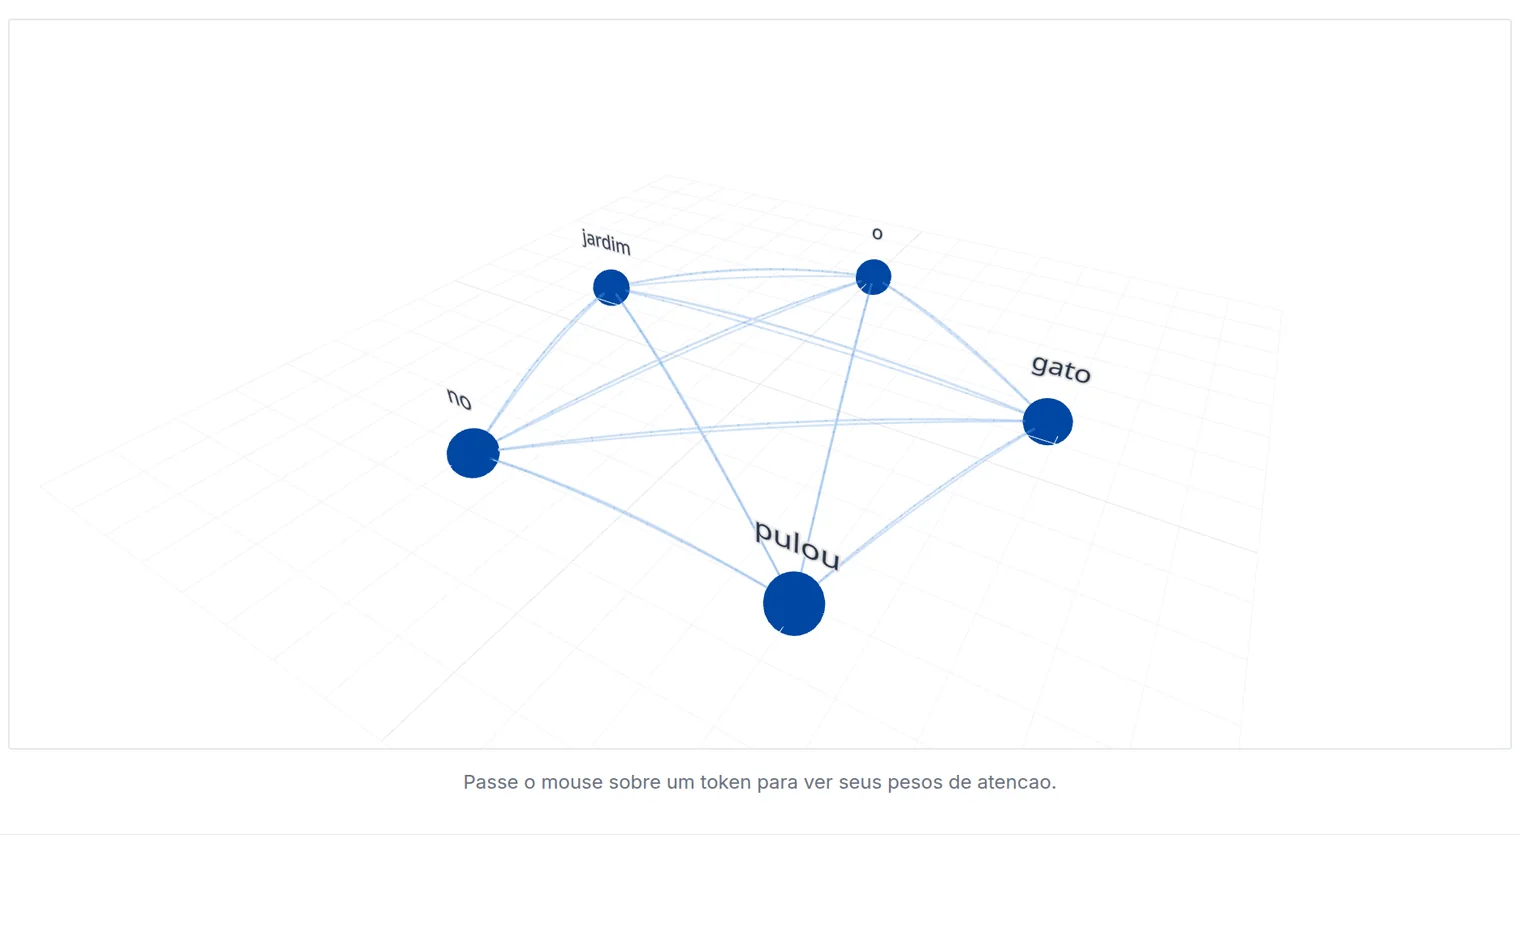
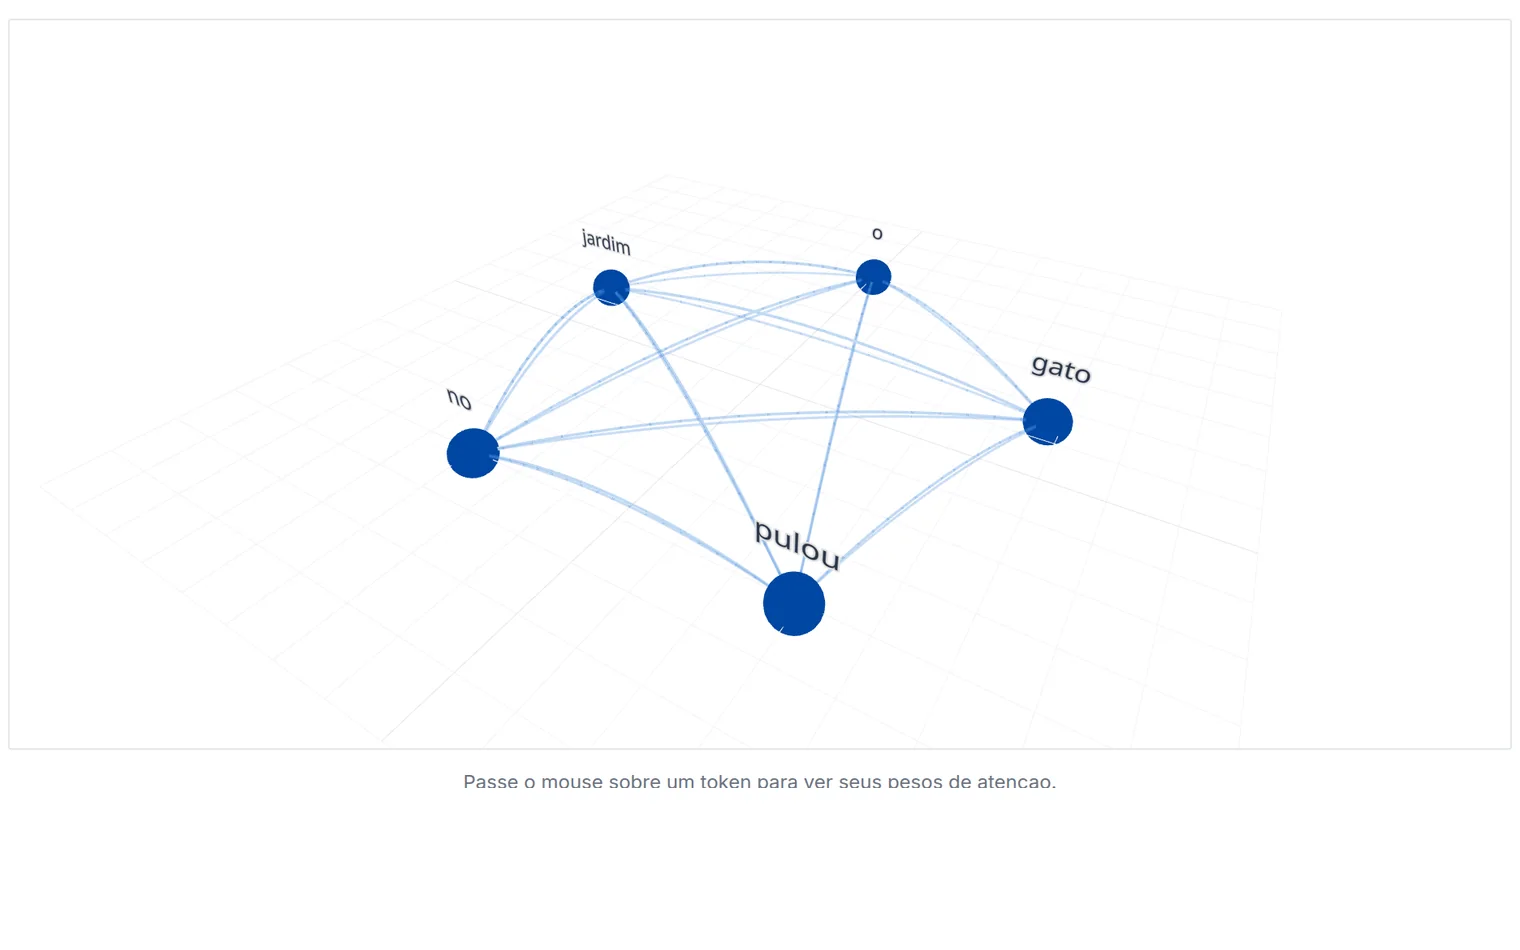
feat(landing): refresh attention screenshots after the softmax fix

diff --git a/frontend/src/pages/LandingPage.tsx b/frontend/src/pages/LandingPage.tsx
@@ -222,13 +222,13 @@ export default function LandingPage() {
           <figure className="lg:col-span-12 lg:row-start-1 lg:grid lg:grid-cols-12 lg:gap-x-6">
             <img
               src="/landing/atencao-mapa.webp"
-              alt="Mapa de atenção da frase “o gato pulou no jardim”: uma grade 5 por 5 em tons de vermelho a amarelo, com o peso de cada par de tokens escrito na célula."
+              alt="Mapa de atenção da frase “o gato pulou no jardim”: uma grade 5 por 5 que vai do amarelo claro ao vermelho escuro, com o peso de cada par de tokens escrito na célula."
               width={1660}
               height={690}
               className="h-auto max-h-[46vh] w-full object-contain object-left lg:col-span-9"
             />
             <figcaption className="mt-3 text-base text-[var(--muted)] lg:col-span-3 lg:mt-0 lg:self-end">
-              Mapa de atenção, como aparece na plataforma. Cada célula é o peso que um token da frase “o gato pulou no jardim” dá a outro.
+              Mapa de atenção, como aparece na plataforma. Cada célula é o peso que um token da frase “o gato pulou no jardim” dá a outro; cada linha soma 1.
             </figcaption>
           </figure>
 
